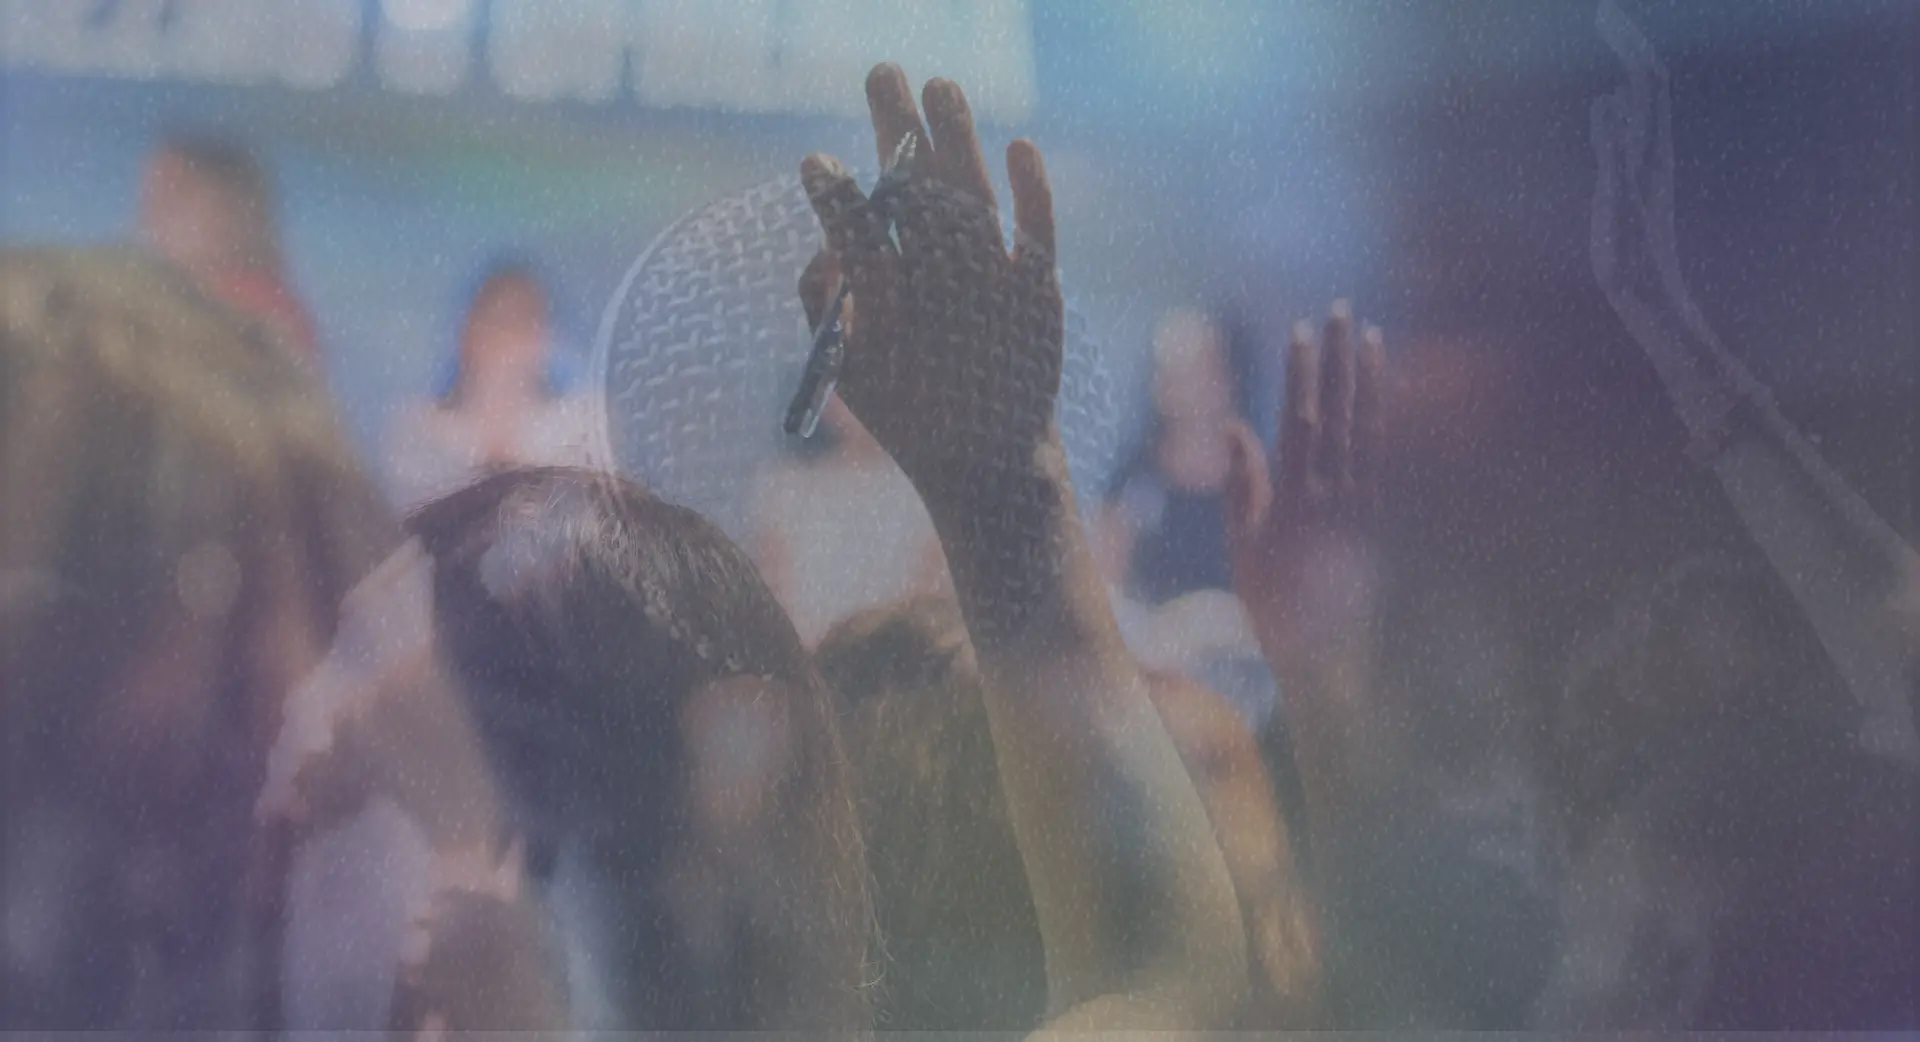
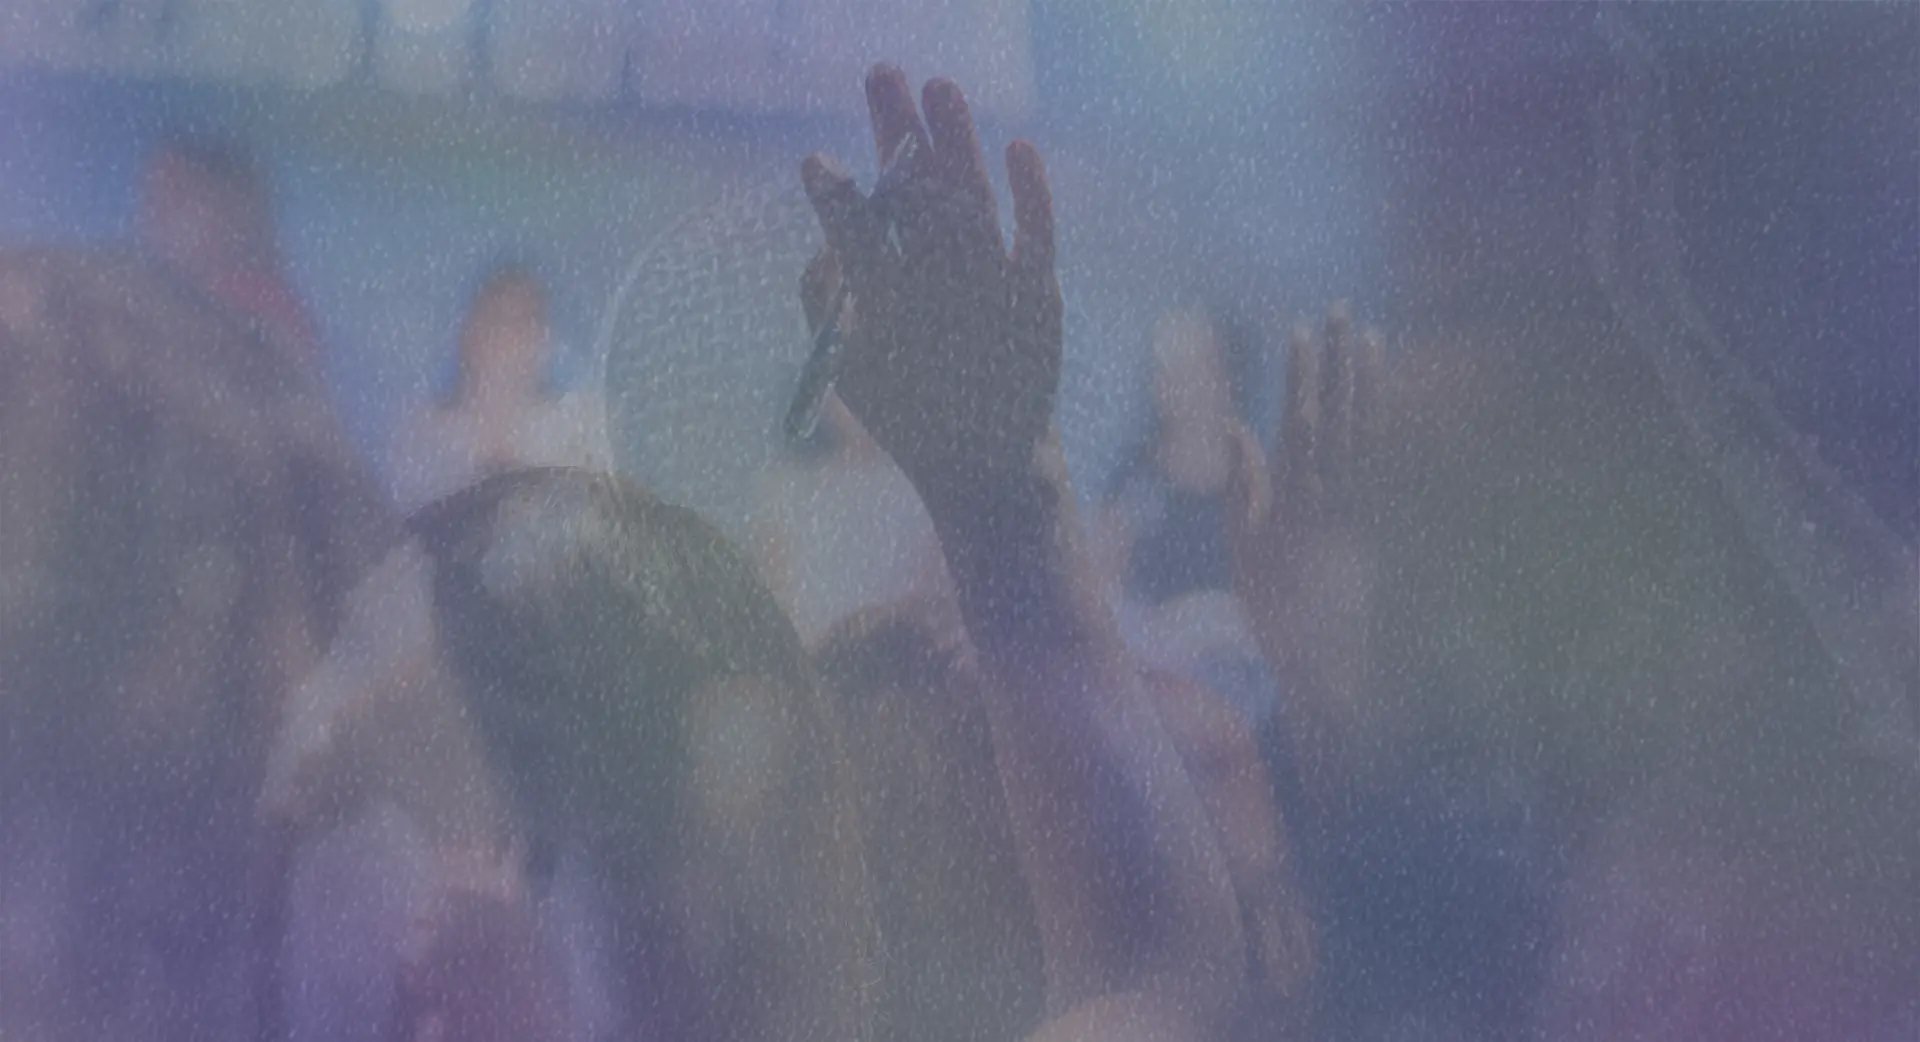
Improve background in main page

diff --git a/style/index.css b/style/index.css
@@ -1,6 +1,6 @@
 body {
-    background-image: none !important;
     height: 100%;
+    margin-top: 0 !important;
 }
 
 nav {
@@ -25,7 +25,6 @@ section {
 }
 
 #home {
-    background-image: url("../assets/img/bg.webp");
     background-repeat: repeat;
     background-size: cover;
     height: 100%;
@@ -154,7 +153,7 @@ section {
 
 @media screen and (min-width: 820px) {
     #social-media {
-        height: 88vh;
+        height: 86.5vh;
     }
 }
 

diff --git a/style/style.css b/style/style.css
@@ -37,6 +37,7 @@ html, body {
 
 body {
     background-image: url("../assets/img/bg.webp");
+    margin-top: 13.5vh;
 }
 
 footer {
